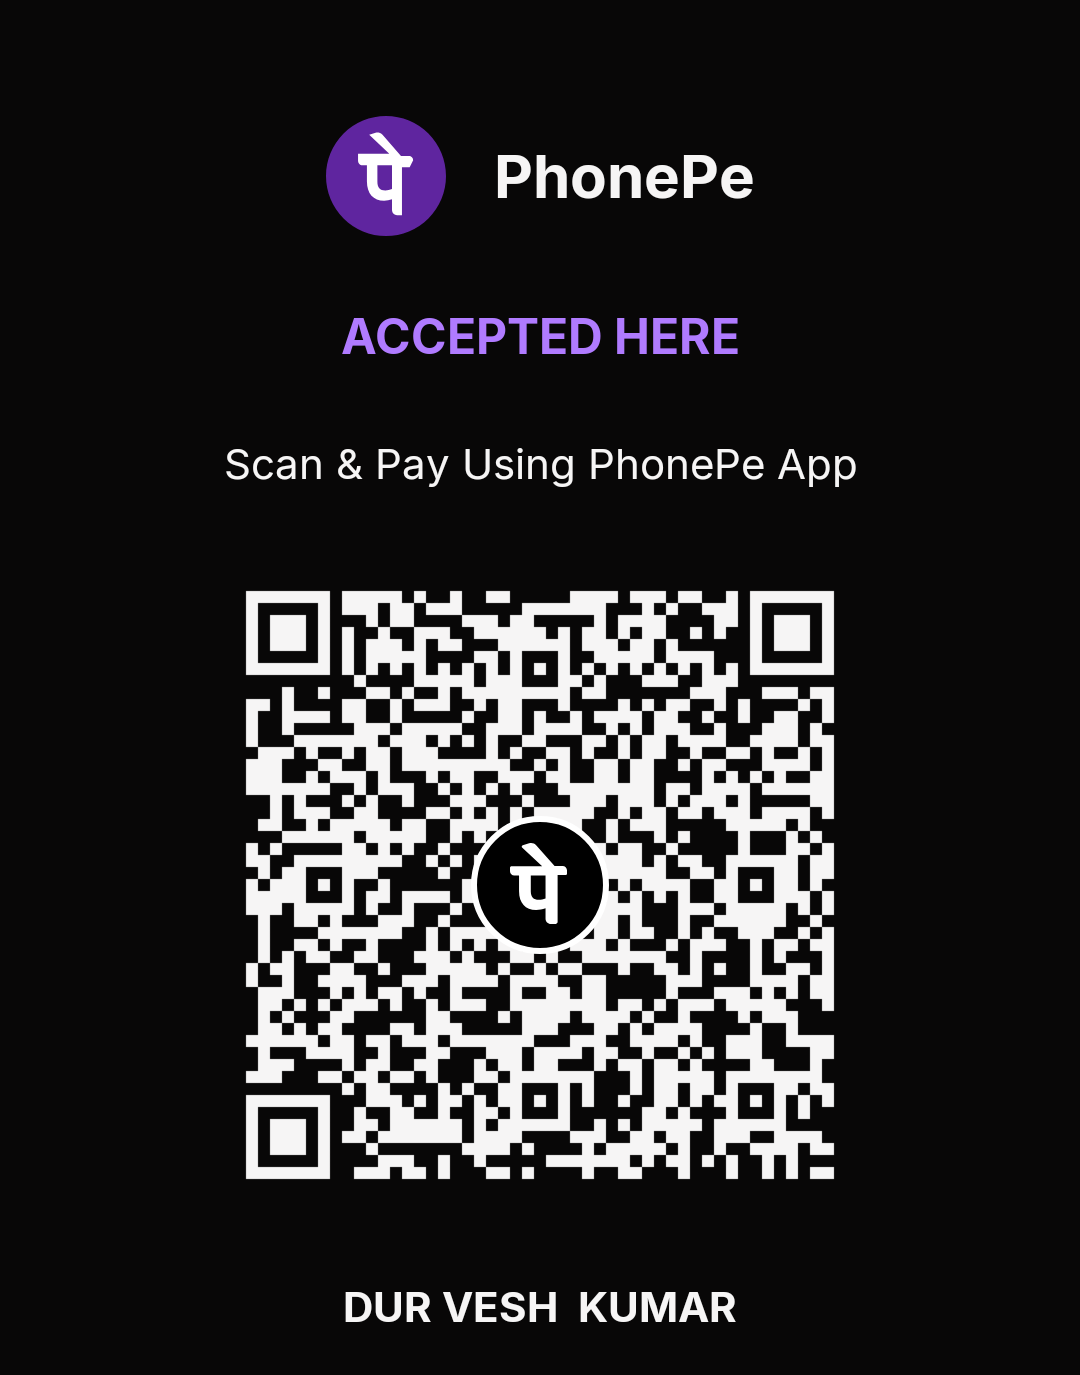
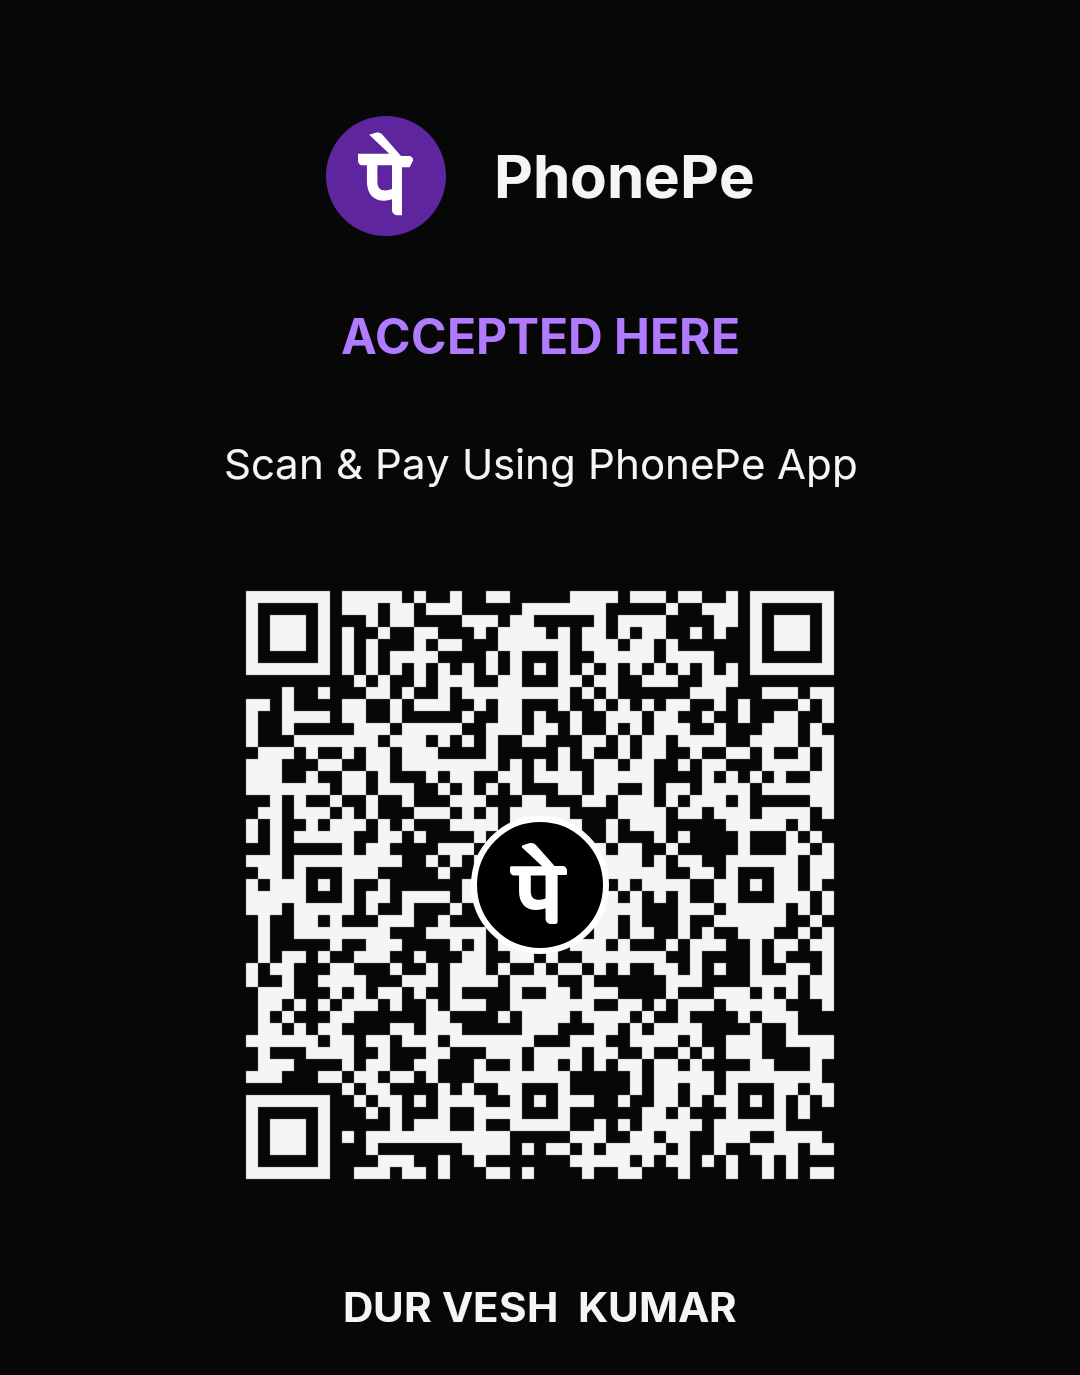
Replace stored UPI QR with the original PhonePe QR for the store's UPI ID
Claude-Session: https://claude.ai/code/session_01KqZco1d3tCbRwCmsBFFDLH

diff --git a/docs/IMPLEMENTATION_PLAN.md b/docs/IMPLEMENTATION_PLAN.md
@@ -9,7 +9,7 @@ This document maps the master brief against what the repository already contains
 | Framework | npm-workspaces monorepo: `apps/api` (NestJS 11 + Prisma 6 + PostgreSQL + Redis), `apps/web` (Next.js 15 storefront), `apps/admin` (Next.js 15 admin panel) | **Keep.** It matches the brief's preferred stack. The admin stays a separate app rather than `web/app/admin` so admin code never ships to shoppers. |
 | Brand reference | `brand/seshastone-brand-reference.png` | Present |
 | Logo assets | None. There is no approved logo file; the SS monogram in `apps/web/components/brand.tsx` is our approximation | Build a placeholder SVG logo system, **clearly labelled as temporary** |
-| UPI QR | `public/payment/upi-qr/current-upi-qr.png` | Present, but its encoded UPI ID does not match the store's UPI ID. It must be replaced with a QR for the configured UPI ID before customers see it (the upload validator enforces this) |
+| UPI QR | `public/payment/upi-qr/current-upi-qr.png`: the original PhonePe QR. It decodes to a `upi://pay` URI whose UPI ID matches the configured one | Present and verified |
 | Database | 20 models: customers, addresses, categories, products/variants/images, inventory and movements, orders and items, payments, coupons and usage, reviews, wishlist, CMS pages, banners, newsletter, campaigns, key-value settings | Extend. Do not replace |
 | Payments | Direct UPI (QR generated from the configured UPI ID), bank transfer, customer UTR submission, admin confirm/reject, stock hold and expiry, and Razorpay/Cashfree adapters with HMAC webhooks (not activated) | Rework the QR handling to use the uploaded original QR; add evidence upload, refunds and new states |
 | Settings | Database key-value store with a Redis cache; bank and UPI details are never exposed publicly | Add branch, WhatsApp, address, instructions and refund fields, account-number masking, confirmation for financial changes, and an audit trail |

diff --git a/README.md b/README.md
@@ -61,7 +61,7 @@ The brand board is at [`brand/seshastone-brand-reference.png`](brand/seshastone-
 - **Collections:** Gold, Silver, Diamond and Premium Artificial Jewellery are defined in `apps/web/lib/collections.ts`. Gold and Silver filter by metal, Diamond by gemstone, and Premium Artificial by the `premium-artificial-jewellery` category.
 - **Hero:** to put a photo behind the home-page hero, add a *Home hero* banner under **Admin → CMS**.
 
-The store's PhonePe QR code is kept at [`public/payment/upi-qr/current-upi-qr.png`](public/payment/upi-qr/current-upi-qr.png) for reference. Checkout pays the UPI ID and payee name set in **Admin → Settings**. Before this image is shown to customers, its encoded UPI ID must match that setting.
+The store's original PhonePe QR code is kept, unmodified, at [`public/payment/upi-qr/current-upi-qr.png`](public/payment/upi-qr/current-upi-qr.png). It encodes the same UPI ID as the one set in **Admin → Settings**. If you replace it, check that the new QR's encoded UPI ID still matches that setting.
 
 ## Store details
 
